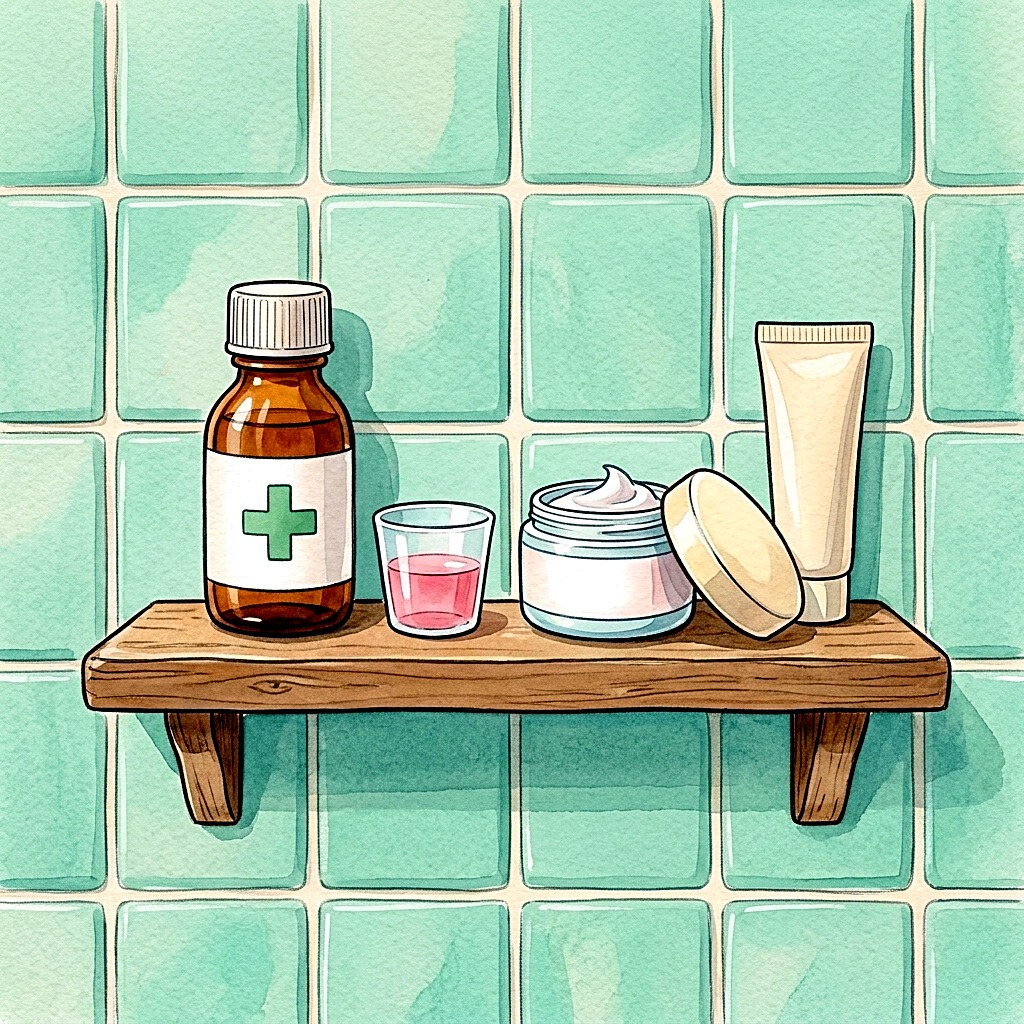
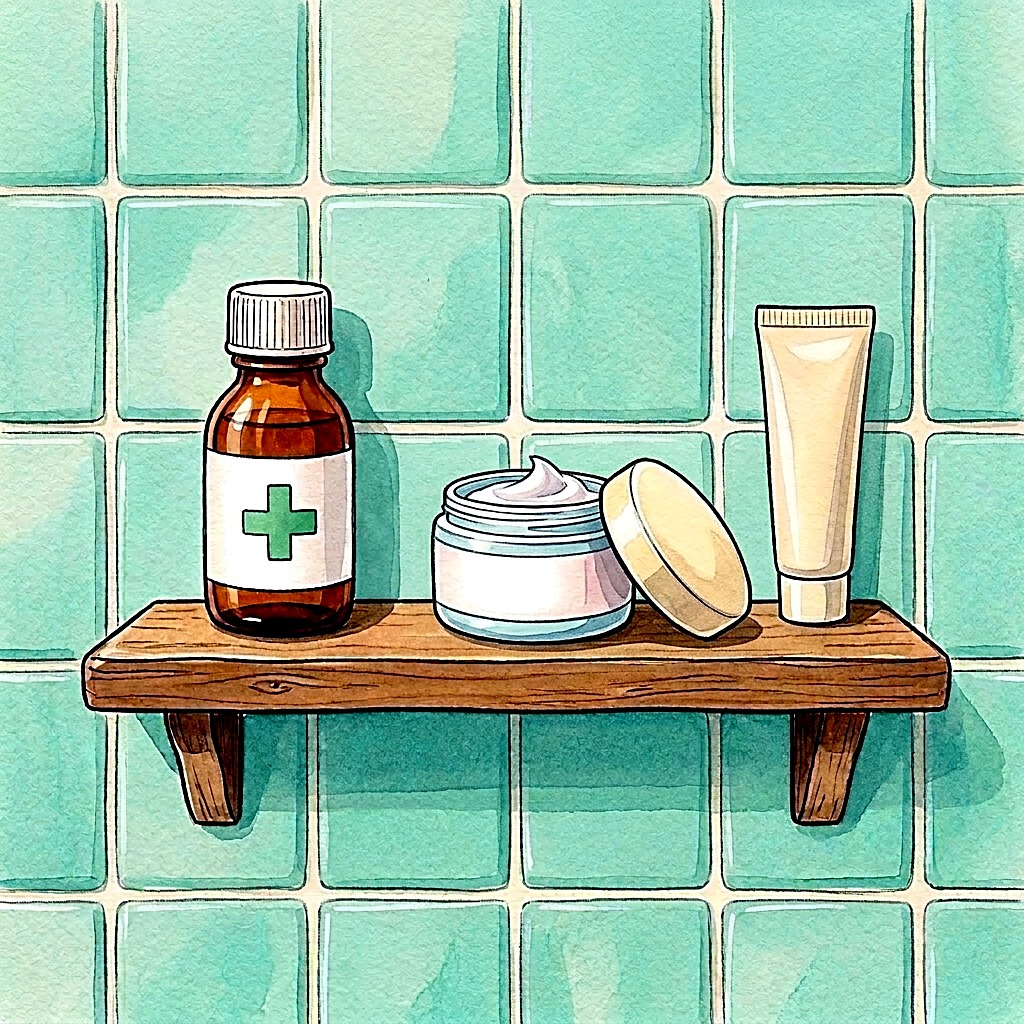
Medicine picture without the cup (objects evenly arranged), bath with matching wall tiles; no print note on ticks
Generated by agy; Lens: no exact matches on the raw and final files.

Changed region(s): [[0.0, 0.0, 1.0, 1.0]]

diff --git a/output/sl-vsakdan.html b/output/sl-vsakdan.html
@@ -289,11 +289,11 @@
         </div>
         <div class="rt-check"></div>
       </div>
-      <div class="rt-pic pic-left" style="--step: #F43F5E; --bg: #ADE2C5; --ink: #942F55; grid-row: 10 / span 4;">
+      <div class="rt-pic pic-left" style="--step: #F43F5E; --bg: #A0DEC3; --ink: #942F55; grid-row: 10 / span 4;">
         <img src="../images/care.jpg" alt="Zdravila" />
         <div class="rt-num">5</div>
       </div>
-      <div class="rt-card card-left" style="--step: #F43F5E; --bg: #ADE2C5; --ink: #942F55; grid-row: 11 / span 2;">
+      <div class="rt-card card-left" style="--step: #F43F5E; --bg: #A0DEC3; --ink: #942F55; grid-row: 11 / span 2;">
         <div class="rt-text">
           <div class="rt-label">ZDRAVILA</div>
           <div class="rt-time"><span class="blank"></span>:<span class="blank"></span></div>
@@ -414,22 +414,22 @@
     <svg class="rt-sky" viewBox="0 0 210 297" preserveAspectRatio="none" aria-hidden="true"><g fill="#FFF8DC"><circle cx="69.1" cy="137.9" r="0.35" opacity="0.49"/><circle cx="112.3" cy="177.7" r="0.35" opacity="0.90"/><circle cx="46.8" cy="125.9" r="0.9" opacity="0.48"/><circle cx="21.5" cy="188.5" r="0.35" opacity="0.92"/><circle cx="131.6" cy="217.9" r="0.35" opacity="0.74"/><circle cx="83.9" cy="290.6" r="0.35" opacity="0.73"/><circle cx="30.2" cy="187.5" r="0.35" opacity="0.74"/><circle cx="117.3" cy="236.2" r="0.35" opacity="0.74"/><circle cx="133.3" cy="178.9" r="0.35" opacity="0.73"/><circle cx="129.3" cy="201.8" r="0.9" opacity="0.84"/><circle cx="165.1" cy="239.3" r="0.5" opacity="0.49"/><circle cx="64.3" cy="201.6" r="0.7" opacity="0.81"/><circle cx="61.7" cy="291.3" r="0.35" opacity="0.71"/><circle cx="36.7" cy="173.3" r="0.9" opacity="0.66"/><circle cx="199.3" cy="124.4" r="0.7" opacity="0.62"/><circle cx="74.4" cy="201.9" r="0.9" opacity="0.48"/><circle cx="22.1" cy="159.9" r="0.35" opacity="0.48"/><circle cx="146.1" cy="229.7" r="0.9" opacity="0.59"/><circle cx="81.7" cy="233.7" r="0.35" opacity="0.92"/><circle cx="75.5" cy="223.0" r="0.9" opacity="0.48"/><circle cx="159.7" cy="133.9" r="0.5" opacity="0.65"/><circle cx="190.0" cy="201.9" r="0.5" opacity="0.67"/><circle cx="59.8" cy="186.8" r="0.7" opacity="0.79"/><circle cx="80.6" cy="152.7" r="0.35" opacity="0.54"/><circle cx="50.3" cy="153.2" r="0.9" opacity="0.87"/><circle cx="40.2" cy="162.2" r="0.5" opacity="0.66"/><circle cx="78.3" cy="214.8" r="0.5" opacity="0.80"/><circle cx="108.2" cy="224.3" r="0.35" opacity="0.68"/><circle cx="180.7" cy="286.1" r="0.9" opacity="0.65"/><circle cx="83.4" cy="199.1" r="0.9" opacity="0.48"/><circle cx="16.7" cy="148.6" r="0.5" opacity="0.50"/><circle cx="125.5" cy="128.9" r="0.5" opacity="0.72"/><circle cx="196.6" cy="223.5" r="0.35" opacity="0.89"/><circle cx="128.3" cy="137.5" r="0.7" opacity="0.93"/><circle cx="125.9" cy="197.7" r="0.35" opacity="0.87"/><circle cx="205.6" cy="196.2" r="0.9" opacity="0.61"/><circle cx="32.4" cy="248.7" r="0.7" opacity="0.69"/><circle cx="144.2" cy="205.5" r="0.5" opacity="0.93"/><circle cx="110.8" cy="137.1" r="0.35" opacity="0.83"/><circle cx="63.8" cy="228.9" r="0.35" opacity="0.80"/><circle cx="56.3" cy="177.8" r="0.5" opacity="0.63"/><circle cx="48.4" cy="210.2" r="0.7" opacity="0.77"/><circle cx="128.1" cy="255.9" r="0.5" opacity="0.85"/><circle cx="169.9" cy="246.9" r="0.5" opacity="0.55"/><circle cx="103.5" cy="245.2" r="0.35" opacity="0.85"/><circle cx="99.3" cy="145.8" r="0.7" opacity="0.67"/></g></svg>
     <div class="rt-grid" style="grid-template-rows: 14mm repeat(18, minmax(0, 1fr));">
       <div class="rt-header"><div class="rt-title">SPANJE</div></div>
-      <div class="rt-pic pic-left" style="--step: #A855F7; --bg: #C0F2EC; --ink: #6A3BAA; grid-row: 2 / span 4;">
+      <div class="rt-pic pic-left" style="--step: #A855F7; --bg: #BBF4F0; --ink: #6A3BAA; grid-row: 2 / span 4;">
         <img src="../images/bath.jpg" alt="Kopanje" />
         <div class="rt-num">1</div>
       </div>
-      <div class="rt-card card-left" style="--step: #A855F7; --bg: #C0F2EC; --ink: #6A3BAA; grid-row: 3 / span 2;">
+      <div class="rt-card card-left" style="--step: #A855F7; --bg: #BBF4F0; --ink: #6A3BAA; grid-row: 3 / span 2;">
         <div class="rt-text">
           <div class="rt-label">KOPANJE</div>
           <div class="rt-time"><span class="blank"></span>:<span class="blank"></span></div>
         </div>
         <div class="rt-check"></div>
       </div>
-      <div class="rt-pic pic-right" style="--step: #9333EA; --bg: #BEE9D0; --ink: #5E28A2; grid-row: 4 / span 4;">
+      <div class="rt-pic pic-right" style="--step: #9333EA; --bg: #B5E7D0; --ink: #5E28A2; grid-row: 4 / span 4;">
         <img src="../images/care.jpg" alt="Zdravila" />
         <div class="rt-num">2</div>
       </div>
-      <div class="rt-card card-right" style="--step: #9333EA; --bg: #BEE9D0; --ink: #5E28A2; grid-row: 5 / span 2;">
+      <div class="rt-card card-right" style="--step: #9333EA; --bg: #B5E7D0; --ink: #5E28A2; grid-row: 5 / span 2;">
         <div class="rt-text">
           <div class="rt-label">ZDRAVILA</div>
           <div class="rt-time"><span class="blank"></span>:<span class="blank"></span></div>

diff --git a/web/app.js b/web/app.js
@@ -23,7 +23,7 @@ const T = {
   sl: {
     heading: "Otrokove rutine", aboutTitle: "O aplikaciji", howTitle: "Navodila",
     about: "Ko otrok na listu vidi, kaj pride zdaj in kaj potem, mu je laže slediti rutini. Ko na opravljen korak sam položi magnetek ali nariše kljukico, vidi, koliko je že naredil in kaj ga še čaka. Predlagamo, da list sestavita skupaj in prve dni ob njem skupaj opravita vsak korak. Še posebej pride prav, kadar otrok prespi pri sorodnikih: starim staršem, tetam in stricem pomaga slediti rutini, ki jo otrok pozna od doma. Znano zaporedje mu lahko da občutek varnosti in ga pomiri.",
-    how: ["Najlaže na računalniku, kjer je predogled lista ob obrazcu. Izberi tip rutine in vpiši do 8 korakov. Naslov in vse napise lahko poljubno spremeniš; prazne vrstice se ne natisnejo.", "Sličico stran izbere sama; klikni nanjo, če jo želiš zamenjati. Naj otrok izbere sličice.", "Uro lahko vpišeš ali jo skriješ s stikalom »Ura na listu«. Vrstni red spremeniš tako, da vrstico povlečeš za pike.", "Natisni na A4: robovi »Brez«, merilo 100 %.", "Natisnjen list lahko pritrdiš na hladilnik ali tablo; otrok vsak opravljen korak označi z magnetkom ali kljukico (za kljukice list vsakič natisni na novo).", "Predlagamo, da začneš z eno rutino, pri triletniku s 3–4 koraki."],
+    how: ["Najlaže na računalniku, kjer je predogled lista ob obrazcu. Izberi tip rutine in vpiši do 8 korakov. Naslov in vse napise lahko poljubno spremeniš; prazne vrstice se ne natisnejo.", "Sličico stran izbere sama; klikni nanjo, če jo želiš zamenjati. Naj otrok izbere sličice.", "Uro lahko vpišeš ali jo skriješ s stikalom »Ura na listu«. Vrstni red spremeniš tako, da vrstico povlečeš za pike.", "Natisni na A4: robovi »Brez«, merilo 100 %.", "Natisnjen list lahko pritrdiš na hladilnik ali tablo; otrok vsak opravljen korak označi z magnetkom ali kljukico.", "Predlagamo, da začneš z eno rutino, pri triletniku s 3–4 koraki."],
     example: "Naloži primer", replaceSheet: "Primer bo zamenjal tvoj list in vpisano se bo izgubilo. Nadaljujem?", print: "Natisni",
     type: "Tip rutine", sheetTitle: "Naslov lista", skies: { dawn: "jutro", afternoon: "dan", night: "večer" },
     times: "Ura na listu", background: "Ozadje", backgrounds: { gradient: "preliv barv", white: "belo", none: "prosojno (se ne natisne)" },
@@ -35,7 +35,7 @@ const T = {
   en: {
     heading: "Child routines", aboutTitle: "About", howTitle: "How to",
     about: "When a child can see what comes now and what comes next, the routine is easier to follow. Putting a magnet or drawing a tick on each finished step themselves shows how much they have done and what is left. We suggest making the sheet together and, for the first few days, doing each step together with the sheet. It is especially handy when your child sleeps over at relatives': it helps grandparents, aunts and uncles follow the routine your child knows from home. A familiar order can give your child a sense of security and calm them.",
-    how: ["Easiest on a computer, where the preview is next to the form. Pick the routine type and type up to 8 steps. You can change the title and every label as you like; empty rows are not printed.", "The page picks a picture for each step; click it to change it. Let your child choose the pictures.", "Type a time or hide it with the “Time on the sheet” switch. To change the order, drag a row by its dots.", "Print on A4: margins None, scale 100 %.", "You can put the printed sheet on the fridge or a board; your child marks each finished step with a magnet or a tick (for ticks, print a fresh sheet each time).", "We suggest starting with one routine and, for a three-year-old, 3–4 steps."],
+    how: ["Easiest on a computer, where the preview is next to the form. Pick the routine type and type up to 8 steps. You can change the title and every label as you like; empty rows are not printed.", "The page picks a picture for each step; click it to change it. Let your child choose the pictures.", "Type a time or hide it with the “Time on the sheet” switch. To change the order, drag a row by its dots.", "Print on A4: margins None, scale 100 %.", "You can put the printed sheet on the fridge or a board; your child marks each finished step with a magnet or a tick.", "We suggest starting with one routine and, for a three-year-old, 3–4 steps."],
     example: "Load example", replaceSheet: "The example will replace your sheet and what you typed will be lost. Continue?", print: "Print",
     type: "Routine type", sheetTitle: "Sheet title", skies: { dawn: "morning", afternoon: "day", night: "evening" },
     times: "Time on the sheet", background: "Background", backgrounds: { gradient: "color gradient", white: "white", none: "transparent (not printed)" },

diff --git a/output/en-example.html b/output/en-example.html
@@ -425,22 +425,22 @@
         </div>
         <div class="rt-check"></div>
       </div>
-      <div class="rt-pic pic-right" style="--step: #0D9488; --bg: #A1EBD7; --ink: #155E6D; grid-row: 4 / span 4;">
+      <div class="rt-pic pic-right" style="--step: #0D9488; --bg: #B0EDD4; --ink: #155E6D; grid-row: 4 / span 4;">
         <img src="../images/bath.jpg" alt="Bath time" />
         <div class="rt-num">2</div>
       </div>
-      <div class="rt-card card-right" style="--step: #0D9488; --bg: #A1EBD7; --ink: #155E6D; grid-row: 5 / span 2;">
+      <div class="rt-card card-right" style="--step: #0D9488; --bg: #B0EDD4; --ink: #155E6D; grid-row: 5 / span 2;">
         <div class="rt-text">
           <div class="rt-label">BATH TIME</div>
           <div class="rt-time"><span class="blank"></span>:<span class="blank"></span></div>
         </div>
         <div class="rt-check"></div>
       </div>
-      <div class="rt-pic pic-left" style="--step: #2563EB; --bg: #ADE2C5; --ink: #2243A3; grid-row: 6 / span 4;">
+      <div class="rt-pic pic-left" style="--step: #2563EB; --bg: #A0DEC3; --ink: #2243A3; grid-row: 6 / span 4;">
         <img src="../images/care.jpg" alt="Medicine &amp; cream" />
         <div class="rt-num">3</div>
       </div>
-      <div class="rt-card card-left" style="--step: #2563EB; --bg: #ADE2C5; --ink: #2243A3; grid-row: 7 / span 2;">
+      <div class="rt-card card-left" style="--step: #2563EB; --bg: #A0DEC3; --ink: #2243A3; grid-row: 7 / span 2;">
         <div class="rt-text">
           <div class="rt-label">MEDICINE &amp; CREAM</div>
           <div class="rt-time"><span class="blank"></span>:<span class="blank"></span></div>

diff --git a/output/sl-primer.html b/output/sl-primer.html
@@ -414,22 +414,22 @@
         </div>
         <div class="rt-check"></div>
       </div>
-      <div class="rt-pic pic-right" style="--step: #0D9488; --bg: #A1EBD7; --ink: #155E6D; grid-row: 4 / span 4;">
+      <div class="rt-pic pic-right" style="--step: #0D9488; --bg: #B0EDD4; --ink: #155E6D; grid-row: 4 / span 4;">
         <img src="../images/bath.jpg" alt="Okopaj se" />
         <div class="rt-num">2</div>
       </div>
-      <div class="rt-card card-right" style="--step: #0D9488; --bg: #A1EBD7; --ink: #155E6D; grid-row: 5 / span 2;">
+      <div class="rt-card card-right" style="--step: #0D9488; --bg: #B0EDD4; --ink: #155E6D; grid-row: 5 / span 2;">
         <div class="rt-text">
           <div class="rt-label">OKOPAJ SE</div>
           <div class="rt-time"><span class="blank"></span>:<span class="blank"></span></div>
         </div>
         <div class="rt-check"></div>
       </div>
-      <div class="rt-pic pic-left" style="--step: #2563EB; --bg: #ADE2C5; --ink: #2243A3; grid-row: 6 / span 4;">
+      <div class="rt-pic pic-left" style="--step: #2563EB; --bg: #A0DEC3; --ink: #2243A3; grid-row: 6 / span 4;">
         <img src="../images/care.jpg" alt="Zdravila in nega" />
         <div class="rt-num">3</div>
       </div>
-      <div class="rt-card card-left" style="--step: #2563EB; --bg: #ADE2C5; --ink: #2243A3; grid-row: 7 / span 2;">
+      <div class="rt-card card-left" style="--step: #2563EB; --bg: #A0DEC3; --ink: #2243A3; grid-row: 7 / span 2;">
         <div class="rt-text">
           <div class="rt-label">ZDRAVILA IN NEGA</div>
           <div class="rt-time"><span class="blank"></span>:<span class="blank"></span></div>

diff --git a/web/data.js b/web/data.js
@@ -105,7 +105,7 @@ window.SHEET_DATA = {
    }
   },
   "care": {
-   "title": "Medicine bottle with a green cross, syrup cup, cream jar and tube on a bathroom shelf",
+   "title": "Medicine bottle with a green cross, cream jar and tube evenly arranged on a bathroom shelf",
    "label": {
     "sl": "ZDRAVILA IN NEGA",
     "en": "MEDICINE & CREAM"
@@ -868,10 +868,10 @@ window.SHEET_DATA = {
  }
 };
 window.SHEET_EDGES = {
-  "bath": ["#C0F2EC", "#A1EBD7"],
+  "bath": ["#BBF4F0", "#B0EDD4"],
   "breakfast": ["#FECD89", "#FFDC9B"],
   "brush-teeth": ["#CFF2E5", "#BBE8D4"],
-  "care": ["#ADE2C5", "#BEE9D0"],
+  "care": ["#A0DEC3", "#B5E7D0"],
   "cartoon": ["#F3C4C1", "#FFF4C5"],
   "clear-table": ["#DEDDCB", "#F2D2AD"],
   "dinner": ["#FECE87", "#FFDC94"],

diff --git a/images/README.md b/images/README.md
@@ -7,7 +7,7 @@ Generated by `tools/build.py` from `images/<id>.json`; do not edit by hand. To a
 | <img src="bath.jpg" width="120" alt="Bubble bath ready with a rubber duck and a towel in the same bathroom"> | `bath` | Bubble bath ready with a rubber duck and a towel in the same bathroom | sl: kopanj*, kopel*, kopaj*, kad, tus*, okopaj*<br>en: bath*, shower | en-example: EVENING ROUTINE 2<br>sl-primer: VEČERNA RUTINA 2<br>sl-vsakdan: SPANJE 1 |
 | <img src="breakfast.jpg" width="120" alt="Toast with butter, an apple and a cup of tea on the kitchen table"> | `breakfast` | Toast with butter, an apple and a cup of tea on the kitchen table | sl: zajtrk*, opecen*, toast, kruh*, jabolk*, caj, malic*<br>en: breakfast, toast, bread, apple, tea, snack | en-example: MORNING ROUTINE 5 |
 | <img src="brush-teeth.jpg" width="120" alt="Tooth character brushing at the bathroom sink"> | `brush-teeth` | Tooth character brushing at the bathroom sink | sl: zob*, scetk*, krtack*<br>en: teeth, tooth*, brush teeth, brush your teeth | en-example: MORNING ROUTINE 6<br>en-example: EVENING ROUTINE 5<br>sl-primer: JUTRANJA RUTINA 5<br>sl-primer: VEČERNA RUTINA 5<br>sl-vsakdan: JUTRANJA RUTINA 6<br>sl-vsakdan: SPANJE 4 |
-| <img src="care.jpg" width="120" alt="Medicine bottle with a green cross, syrup cup, cream jar and tube on a bathroom shelf"> | `care` | Medicine bottle with a green cross, syrup cup, cream jar and tube on a bathroom shelf | sl: zdravil*, sirup*, vitamin*, kapljic*, krem*, mazil*, nega, negovaln*, namaz*, maz*<br>en: medicine*, medication, syrup, vitamin*, drops, cream*, lotion, ointment, skin care | en-example: EVENING ROUTINE 3<br>sl-primer: VEČERNA RUTINA 3<br>sl-vsakdan: JUTRANJA RUTINA 5<br>sl-vsakdan: SPANJE 2 |
+| <img src="care.jpg" width="120" alt="Medicine bottle with a green cross, cream jar and tube evenly arranged on a bathroom shelf"> | `care` | Medicine bottle with a green cross, cream jar and tube evenly arranged on a bathroom shelf | sl: zdravil*, sirup*, vitamin*, kapljic*, krem*, mazil*, nega, negovaln*, namaz*, maz*<br>en: medicine*, medication, syrup, vitamin*, drops, cream*, lotion, ointment, skin care | en-example: EVENING ROUTINE 3<br>sl-primer: VEČERNA RUTINA 3<br>sl-vsakdan: JUTRANJA RUTINA 5<br>sl-vsakdan: SPANJE 2 |
 | <img src="cartoon.jpg" width="120" alt="Wooden TV with a waving bunny cartoon, lamp, flowering plant and window"> | `cartoon` | Wooden TV with a waving bunny cartoon, lamp, flowering plant and window | sl: risank*, tv, televizij*, ekran*, film*<br>en: cartoon*, tv, television, screen time, show | en-example: EVENING ROUTINE 1<br>sl-primer: VEČERNA RUTINA 1<br>sl-vsakdan: SPANJE 5 |
 | <img src="clear-table.jpg" width="120" alt="Child&#x27;s hands carrying a used plate from the table"> | `clear-table` | Child's hands carrying a used plate from the table | sl: pospravi mizo, pospravljanje mize, odnesi krozni*<br>en: clear the table, clear table, clear up the table | en-example: DINNER 5<br>sl-primer: VEČERJA 5<br>sl-vsakdan: VEČERJA 5 |
 | <img src="dinner.jpg" width="120" alt="Plate of pasta, meatballs, carrots and broccoli on the set-table placemat"> | `dinner` | Plate of pasta, meatballs, carrots and broccoli on the set-table placemat | sl: vecerj*, jej, jemo, jest, obed*, kosil*, hrana<br>en: dinner, eat*, meal, supper, lunch | en-example: DINNER 4<br>sl-primer: VEČERJA 4<br>sl-vsakdan: VEČERJA 4 |

diff --git a/README.md b/README.md
@@ -4,7 +4,7 @@
 
 **[Open the sheet maker →](https://stutek.github.io/child-routines/)**
 
-Printable A4 sheets with a daily routine for children aged 3 and up: morning, dinner and evening. You can put the printed sheet on the fridge or a board. Your child follows the pictures and marks each finished step by putting a magnet on its circle or drawing a tick (for ticks, print a fresh sheet each time). Adults read the order and the time on the sheet.
+Printable A4 sheets with a daily routine for children aged 3 and up: morning, dinner and evening. You can put the printed sheet on the fridge or a board. Your child follows the pictures and marks each finished step by putting a magnet on its circle or drawing a tick. Adults read the order and the time on the sheet.
 
 ![Three example sheets: morning, dinner and evening](docs/preview.jpg)
 

diff --git a/README.sl.md b/README.sl.md
@@ -4,7 +4,7 @@
 
 **[Odprite izdelovalnik listov →](https://stutek.github.io/child-routines/)**
 
-Natisljivi listi A4 z dnevno rutino za otroke od 3 let naprej: jutro, večerja in večer. Natisnjen list lahko pritrdite na hladilnik ali tablo. Otrok sledi sličicam in vsak opravljen korak označi tako, da na krog položi magnetek ali nariše kljukico (za kljukice list vsakič natisnite na novo). Odrasli na listu preberejo vrstni red in uro.
+Natisljivi listi A4 z dnevno rutino za otroke od 3 let naprej: jutro, večerja in večer. Natisnjen list lahko pritrdite na hladilnik ali tablo. Otrok sledi sličicam in vsak opravljen korak označi tako, da na krog položi magnetek ali nariše kljukico. Odrasli na listu preberejo vrstni red in uro.
 
 ![Trije vzorčni listi: jutro, večerja in večer](docs/preview.jpg)
 
